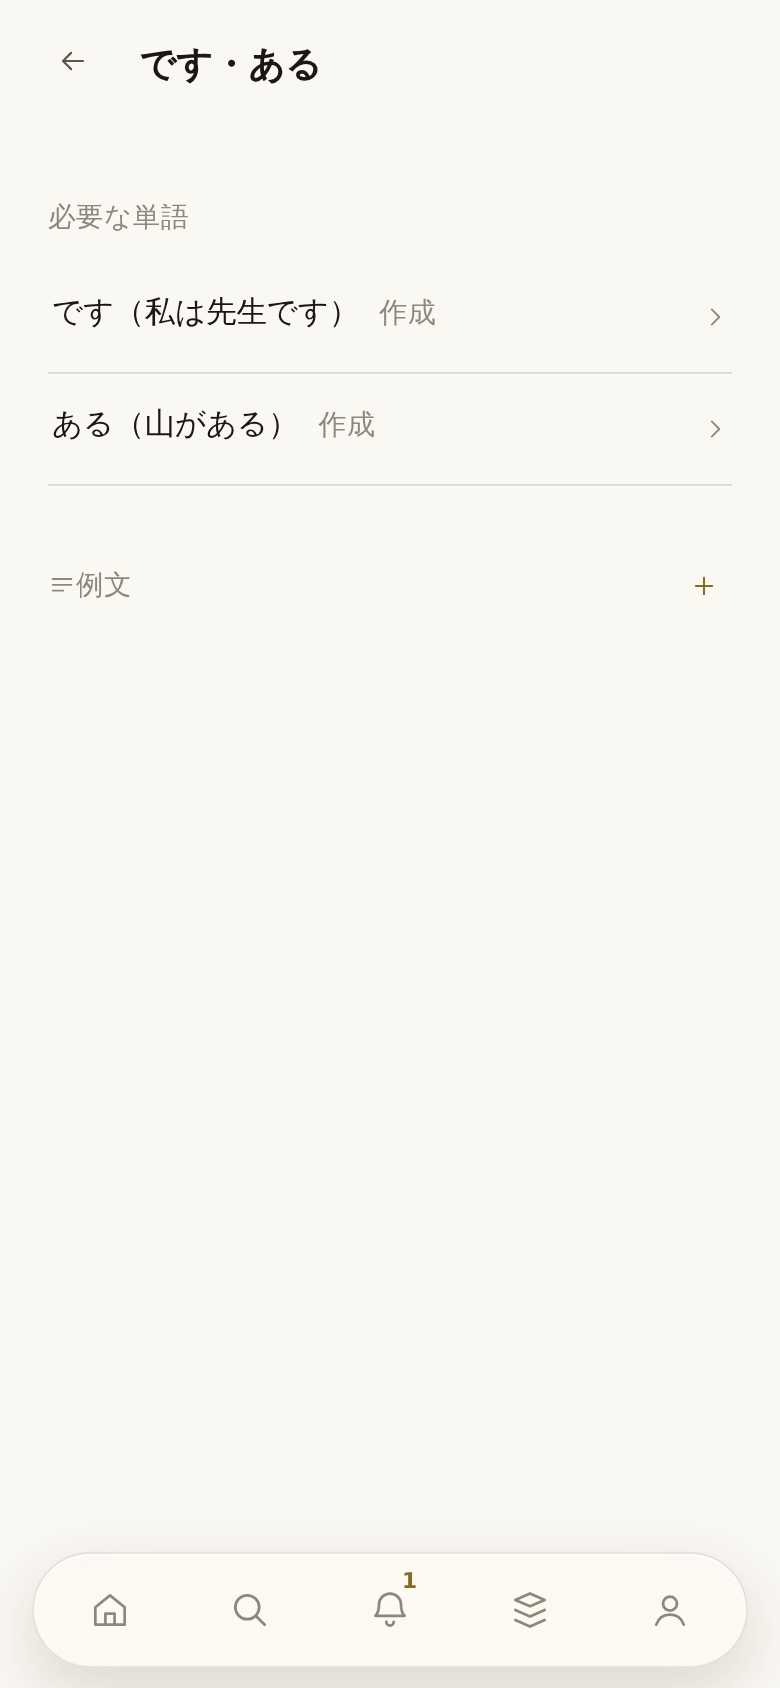
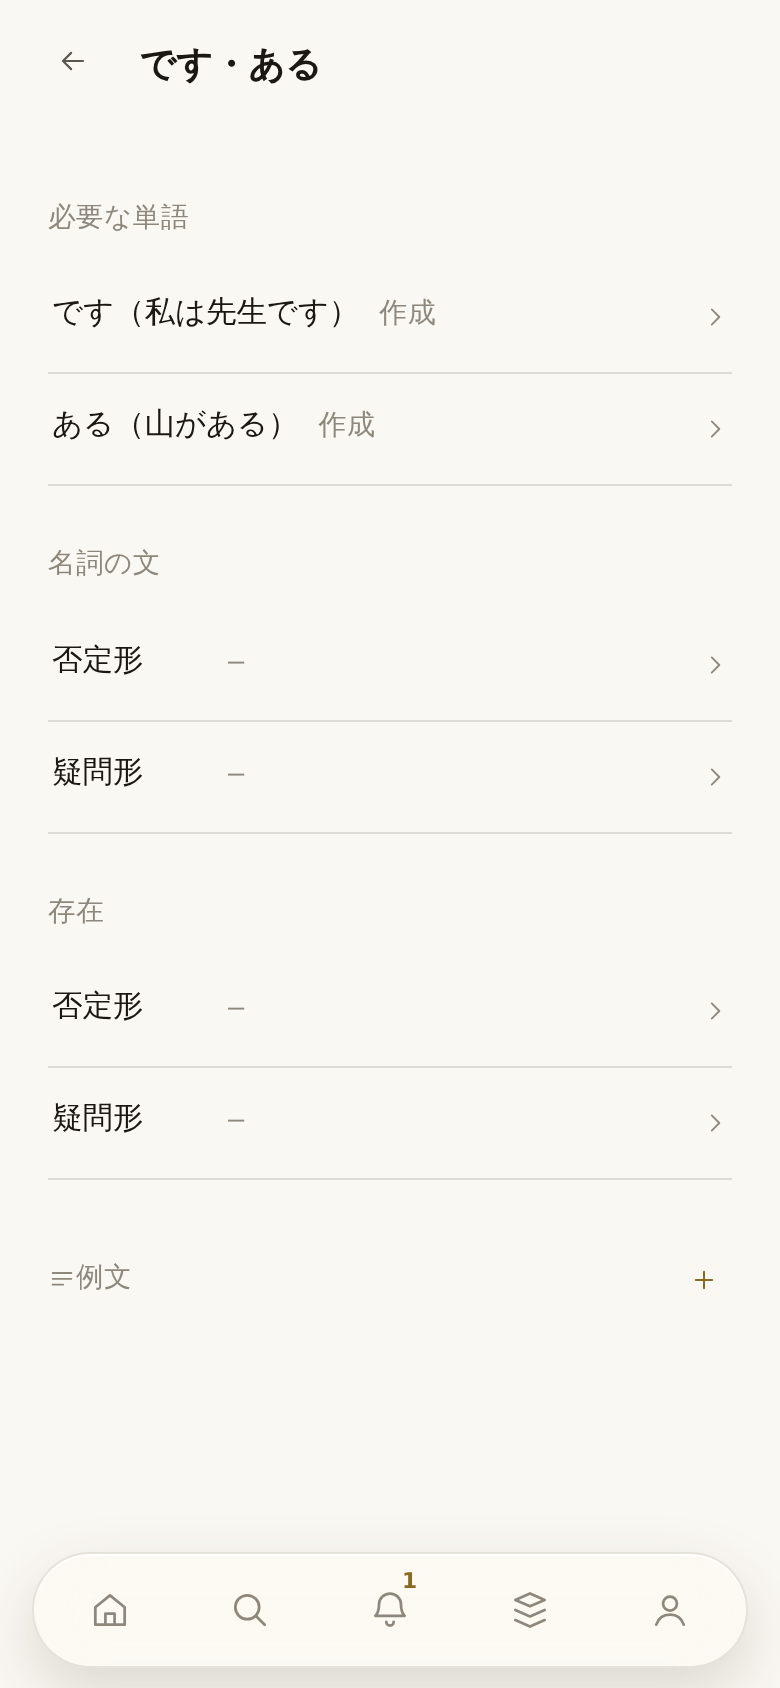
空の章は扉を持たない、否定と疑問の対には見出し ── 写真を見て直した二つ
**語形成を押すと、バーだけの真っ白な頁が開いていた。**節が無い章は目次に
薄い字で出るが扉ではない ── `.strow` の行で、シェブロンも無い（`g2BookRow`）。
`gramArgs()` も `pageName()` も節のある章だけを頁として扱う。

**命令形の頁で、否定形・疑問形の二行が「規則」の見出しの下に並んで、規則に
見えていた。**`g2PolAt()` が対の上に見出しを出す ── 見出しは否定される文の
種類（名詞の文・存在・命令）。です・ある は二種類あるので見出しが二つを分け、
命令形は一種類で、見出しが二行を上の規則から分ける。`g2Cop()` は二回呼ぶだけに
なった。

**press が `.done` を「誰も着ていない」と赤くした。**書き終わった段は平らな
一覧に出ていて、今は章の頁に出る。fixture に所有（枠ゼロの段）を書き終えた
面を足した ── 検査の言うとおり種を足す方。

写真: 目次、九つの章（語形成は扉が無いので撮れない）、です・ある、命令形、
動詞の文の否定。消した二枚は無くなった頁のもの。

check: act 緑（644 画面、277 の名）、i18n 緑、gramlang 緑、
press 緑（15987 押下、276/277 の名、3279 の一覧の高さ、着られない class は
baseline の 3 のまま）。

Claude-Session: https://claude.ai/code/session_01D2rEgvcvKxWzB9Zb5PsSFA

diff --git a/www/phases.js b/www/phases.js
@@ -460,8 +460,10 @@ function gramArgs(){
     }
     out.push('v2:'+a[i].id);
   }
-  /* And every chapter of the book, which is what the contents opens. */
-  for(i=0;i<G2BOOK.length;i++) out.push('book:'+G2BOOK[i].id);
+  /* And every chapter of the book that IS a page. One with no sections is a
+     row on the contents and no door, so there is nothing there to walk. */
+  for(i=0;i<G2BOOK.length;i++)
+    if(g2BookSecs(G2BOOK[i].id).length) out.push('book:'+G2BOOK[i].id);
   return out;
 }
 function stBy(id){
@@ -958,18 +960,30 @@ function g2BookName(id){ return t('g2.book.'+id+'.t'); }
 function g2BookSaid(s){ return s.c? g2Said(s.c) : stFilled(s.p)>0; }
 /* ONE CHAPTER ON THE CONTENTS. Faint until this language has written in one of
    its sections -- 「まだ書いていない章は薄い字」 OWNER 2026-09-06 -- and the
-   number is how many of them it has. A chapter with no sections says —, which
-   is what every row on this list with nothing to count already says. */
+   number is how many of them it has.
+
+   A CHAPTER WITH NO SECTIONS IS NOT A DOOR. 語形成 is 「まだ無ければ空の章と
+   して目次に薄く出る。作らない」 OWNER 2026-09-11: it is in the book and there
+   is nothing behind it, so it is a row rather than a button and carries no
+   chevron. Pressing it opened a page with a bar and an empty body, which is
+   the trap rule 19 is written about, arrived at from the other side.
+
+   It is the same `.strow` either way and that is what keeps the list one
+   height: the class sets `font:inherit` and every span in it carries its own
+   size, so a div and a button come out at the same 56. */
 function g2BookRow(b, n){
-  var a=g2BookSecs(b.id), i, done=0;
+  var a=g2BookSecs(b.id), i, done=0, in1, in2;
   for(i=0;i<a.length;i++) if(g2BookSaid(a[i])) done++;
-  return '<button class="strow'+(done? '' : ' pale')+'"' +
-    DO('go', ['gram', 'book:'+b.id]) + '>'+
+  in1=a.length? ('<button class="strow'+(done? '' : ' pale')+'"' +
+                 DO('go', ['gram', 'book:'+b.id]) + '>')
+              : '<div class="strow pale">';
+  in2=a.length? (ICON_GO+'</button>') : '</div>';
+  return in1+
     '<span class="stn">'+n+'</span>'+
     '<span class="stt">'+esc(g2BookName(b.id))+'</span>'+
     '<span class="lead"></span>'+
     '<span class="stv">'+(a.length? (done+' / '+a.length) : '—')+'</span>'+
-    ICON_GO+'</button>';
+    in2;
 }
 /* THE CONTENTS: ten rows and nothing else. */
 function stListHTML(){
@@ -1073,6 +1087,7 @@ function vGram(){
      An argument that names none -- a chapter that has gone -- falls through to
      the contents, exactly as an unknown `v2:` does. */
   var b=(gOpen && gOpen.indexOf('book:')===0)? g2BookBy(gOpen.slice(5)) : null;
+  if(b && !g2BookSecs(b.id).length) b=null;
   if(b)
     return '<div class="view">'+navTop()+
       '<div class="body">'+g2BookPage(b)+'</div></div>';

diff --git a/www/grammar.js b/www/grammar.js
@@ -1300,9 +1300,7 @@ function g2Det(){ return chapSlotsHTML('det'); }
    on. Each heading is the target's name, because the two rows under it are 否定
    and 疑問. */
 function g2Cop(){
-  return chapSlotsHTML('cop')+
-         g2Sec('g2.on.n')+g2PolAt('n')+
-         g2Sec('g2.on.ex')+g2PolAt('ex');
+  return chapSlotsHTML('cop')+g2PolAt('n')+g2PolAt('ex');
 }
 function g2Cx(){
   return g2Sec('g2.cx.sub')+g2SidePick('cx')+
@@ -1668,11 +1666,12 @@ function gPolOrderSay(form){
    the verb chapter names (www/phases.js § G2BOOK), and the other three are
    drawn here, on the page of the section they belong to.
 
-   ONE ROW SAYS WHAT IT IS AND THE PAGE SAYS WHAT IT IS ABOUT. The row's name
-   is the chapter's -- 否定 / 疑問 -- because the page under it is 命令 or
-   です／ある and naming the target again on the row would be the page said
-   twice. On です／ある the two targets are both there, so each pair sits under
-   a heading that names it. */
+   ONE ROW SAYS WHAT IT IS AND THE HEADING SAYS WHAT IT IS ABOUT. The row's
+   name is the chapter's -- 否定形 / 疑問形 -- and the heading over the pair is
+   the KIND OF SENTENCE being negated: 名詞の文, 存在, 命令. です／ある carries
+   two of those kinds, so the heading is what tells the two pairs apart; 命令形
+   carries one, and the heading is what stops the pair reading as two more of
+   the rules above it, which is what they looked like without one. */
 function g2PolAt(on){
   var out='', i, c;
   /* Nothing at all for a page that is not one of the four things a language
@@ -1682,7 +1681,7 @@ function g2PolAt(on){
     c=g2ChapBy(GPOL_FEAT[i].id+':'+on);
     if(c) out+=g2PolRow(c, on);
   }
-  return out;
+  return out? g2Sec('g2.on.'+on)+out : '';
 }
 function g2PolRow(c, on){
   var r=gPolFind(gPolFeat(c.id), gPolTarget(on)), ops=gPolOps(r),

diff --git a/www/shell.js b/www/shell.js
@@ -1060,7 +1060,8 @@ function pageName(r, a){
       return g2ChapName(a.slice(3));
     /* A chapter of the book names itself the same way, out of the one table
        the contents is built from -- www/phases.js § G2BOOK. */
-    if(a.indexOf('book:')===0 && typeof g2BookBy==='function' && g2BookBy(a.slice(5)))
+    if(a.indexOf('book:')===0 && typeof g2BookSecs==='function' &&
+       g2BookSecs(a.slice(5)).length)
       return g2BookName(a.slice(5));
     var st=(typeof stBy==='function')? stBy(a) : null;
     if(st) return stTitle(st);
